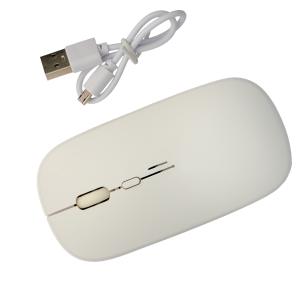
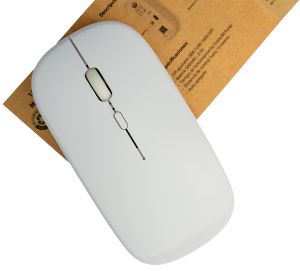
dinsdag

diff --git a/artikelen/Muis 255 BT/index.php b/artikelen/Muis 255 BT/index.php
@@ -56,13 +56,10 @@ if (!empty($pdfBestanden)) {
             "titel titel titel titel titel titel"
             "een een twee twee twee twee"
             "usp usp twee twee twee twee"
-            "vier vier vijf vijf vijf vijf"
             "drie drie zeven zeven zeven zeven"
-            "acht acht acht acht acht acht"
-            "tien tien tien tien tien tien"
-            "twaalf twaalf twaalf elf elf elf"
-            "dertien dertien dertien elf elf elf";
-        grid-template-rows: 1fr 3fr 2fr 6fr auto 5fr 1fr 1fr 4fr;
+            "vier vier vier vijf vijf vijf"
+            "acht acht acht acht acht acht";
+        grid-template-rows: 1fr 3fr 2fr auto 6fr 5fr;
         height: 3000px;
     }
 
@@ -77,13 +74,8 @@ if (!empty($pdfBestanden)) {
                 "vier vier vijf vijf"
                 "drie drie drie drie"
                 "zeven zeven zeven zeven"
-                "acht acht acht acht"
-                "tien tien tien tien"
-
-                "elf elf elf elf"
-                "twaalf twaalf twaalf twaalf"
-                "dertien dertien dertien dertien";
-            grid-template-rows: 1fr 3fr 5fr 4fr auto auto 3fr 1fr 5fr 4fr auto auto;
+                "acht acht acht acht";
+            grid-template-rows: 1fr 3fr 5fr 4fr auto auto 3fr 1fr;
         }
     }
 
@@ -128,8 +120,6 @@ if (!empty($pdfBestanden)) {
             font-size: 1.4rem;
         }
     }
-
-   
 </style>
 <script>
     window.isProductPage = true;
@@ -155,10 +145,10 @@ if (!empty($pdfBestanden)) {
 
     <article class='grid-container'>
         <div class="een">
-            <img class='hoog' src="HP-112 een.png" alt='hp-136 hoofdtelefoon' loading="lazy">
+            <img class='hoog' src="bovenaf uitgeknipt met kaartje bewerkt 15042025.png" alt='hp-136 hoofdtelefoon' loading="lazy">
         </div>
         <div class="twee geenpad">
-            <img class='breed' src="houten pc met 112.jpg" alt='hp-136 hoofdtelefoon' loading="lazy">
+            <img class='breed' src="onderkant en dongle uitgeknipt en bewerkt 15042025.png" alt='hp-136 hoofdtelefoon' loading="lazy">
         </div>
 
         <div class="titel oranje">
@@ -191,11 +181,11 @@ if (!empty($pdfBestanden)) {
             ?>
         </div>
 
-        <div class="vier">
-            <img class='hoog' src="HP-112 drie.png" alt='hp-136 hoofdtelefoon' loading="lazy">
+        <div class="vier nopad">
+            <img class='breed' src="doosje.png" alt='hp-136 hoofdtelefoon' loading="lazy">
         </div>
         <div class="vijf">
-            <img class='hoog' src="hp-112 twee.png" alt='hp-136 hoofdtelefoon' loading="lazy">
+            <img class='breed' src="front.png" alt='hp-136 hoofdtelefoon' loading="lazy">
         </div>
 
         <div class="zeven omschrijving oranje col2">
@@ -203,37 +193,12 @@ if (!empty($pdfBestanden)) {
         </div>
 
         <div class="acht">
-            <img class='hoog' src="hp-112 vier.png" alt='hp-136 hoofdtelefoon' loading="lazy">
+            <img class='hoog' src="bovenaf uitgeknipt bewerkt 15042025.png" alt='hp-136 hoofdtelefoon' loading="lazy">
         </div>
 
 
 
-        <div class="tien oranje">
-            <h1> <?php echo htmlspecialchars($variantProduct['TypeNummer']); ?></h1>
-        </div>
 
-
-
-        <div class="elf">
-            <img class='hoog' src="HP-112 in zakje.png" alt='HP-305 in een zakje' loading="lazy">
-        </div>
-
-        <div class="twaalf oranje omschrijving col2">
-            <?php echo $variantProduct['omschrijving']; ?>
-        </div>
-
-        <div class="dertien prijs">
-            <?php
-            // Voor het variantproduct:
-            renderPriceComponent(
-                $variantProduct['prijsstaffel'],
-                $variantProduct['aantal_per_doos'],
-                'variant',
-                $variantProduct['TypeNummer'],
-                'variant'
-            );
-            ?>
-        </div>
     </article>
 
     <div id="lightbox-overlay" class="lightbox-overlay">

diff --git a/artikelen/Muis 55 zwart/index.php b/artikelen/Muis 55 zwart/index.php
@@ -5,7 +5,7 @@ $menu = "beheer";
 $title = "Muis 55 zwart";
 // Stel de typenummers in voor het hoofdproduct en de variant met zakjes
 $TypeNummerHoofd = "Muis 55 zwart";
-$TypeNummerZakjes = Null; // Zorg dat dit typenummer in de database bestaat voor de variant
+$TypeNummerZakjes = "Muis 55 wit"; // Zorg dat dit typenummer in de database bestaat voor de variant
 
 // Include het artikelkop.php script voor databaseverbinding en de getProductData functie
 include_once __DIR__ . '/../../incs/artikelkop.php';
@@ -56,14 +56,13 @@ if (!empty($pdfBestanden)) {
             "titel titel titel titel titel titel"
             "een een twee twee twee twee"
             "usp usp twee twee twee twee"
-            "vier vier vijf vijf vijf vijf"
+            "vier vier vier vijf vijf vijf"
             "drie drie zeven zeven zeven zeven"
-            "acht acht acht acht acht acht"
             "tien tien tien tien tien tien"
             "twaalf twaalf twaalf elf elf elf"
             "dertien dertien dertien elf elf elf";
-        grid-template-rows: 1fr 3fr 2fr 6fr auto 5fr 1fr 1fr 4fr;
-        height: 3000px;
+        grid-template-rows: 1fr 2fr 2fr 3fr auto 1fr 2fr auto;
+        height: 2000px;
     }
 
     /* Responsive aanpassingen per pagina */
@@ -128,8 +127,6 @@ if (!empty($pdfBestanden)) {
             font-size: 1.4rem;
         }
     }
-
-   
 </style>
 <script>
     window.isProductPage = true;
@@ -155,10 +152,10 @@ if (!empty($pdfBestanden)) {
 
     <article class='grid-container'>
         <div class="een">
-            <img class='hoog' src="HP-112 een.png" alt='hp-136 hoofdtelefoon' loading="lazy">
+            <img class='hoog' src="zwart bovenaf met kabel.png" alt='hp-136 hoofdtelefoon' loading="lazy">
         </div>
         <div class="twee geenpad">
-            <img class='breed' src="houten pc met 112.jpg" alt='hp-136 hoofdtelefoon' loading="lazy">
+            <img class='breed' src="muis en kat.png" alt='hp-136 hoofdtelefoon' loading="lazy">
         </div>
 
         <div class="titel oranje">
@@ -192,18 +189,14 @@ if (!empty($pdfBestanden)) {
         </div>
 
         <div class="vier">
-            <img class='hoog' src="HP-112 drie.png" alt='hp-136 hoofdtelefoon' loading="lazy">
+            <img class='hoog' src="mui55 zwart.png" alt='hp-136 hoofdtelefoon' loading="lazy">
         </div>
         <div class="vijf">
-            <img class='hoog' src="hp-112 twee.png" alt='hp-136 hoofdtelefoon' loading="lazy">
+            <img class='hoog' src="muis55open.jpg" alt='hp-136 hoofdtelefoon' loading="lazy">
         </div>
 
         <div class="zeven omschrijving oranje col2">
             <?php echo $mainProduct['omschrijving']; ?>
-        </div>
-
-        <div class="acht">
-            <img class='hoog' src="hp-112 vier.png" alt='hp-136 hoofdtelefoon' loading="lazy">
         </div>
 
 
@@ -215,7 +208,7 @@ if (!empty($pdfBestanden)) {
 
 
         <div class="elf">
-            <img class='hoog' src="HP-112 in zakje.png" alt='HP-305 in een zakje' loading="lazy">
+            <img class='hoog' src="wit uitgeknipt van boven af met kabel.png" alt='HP-305 in een zakje' loading="lazy">
         </div>
 
         <div class="twaalf oranje omschrijving col2">
